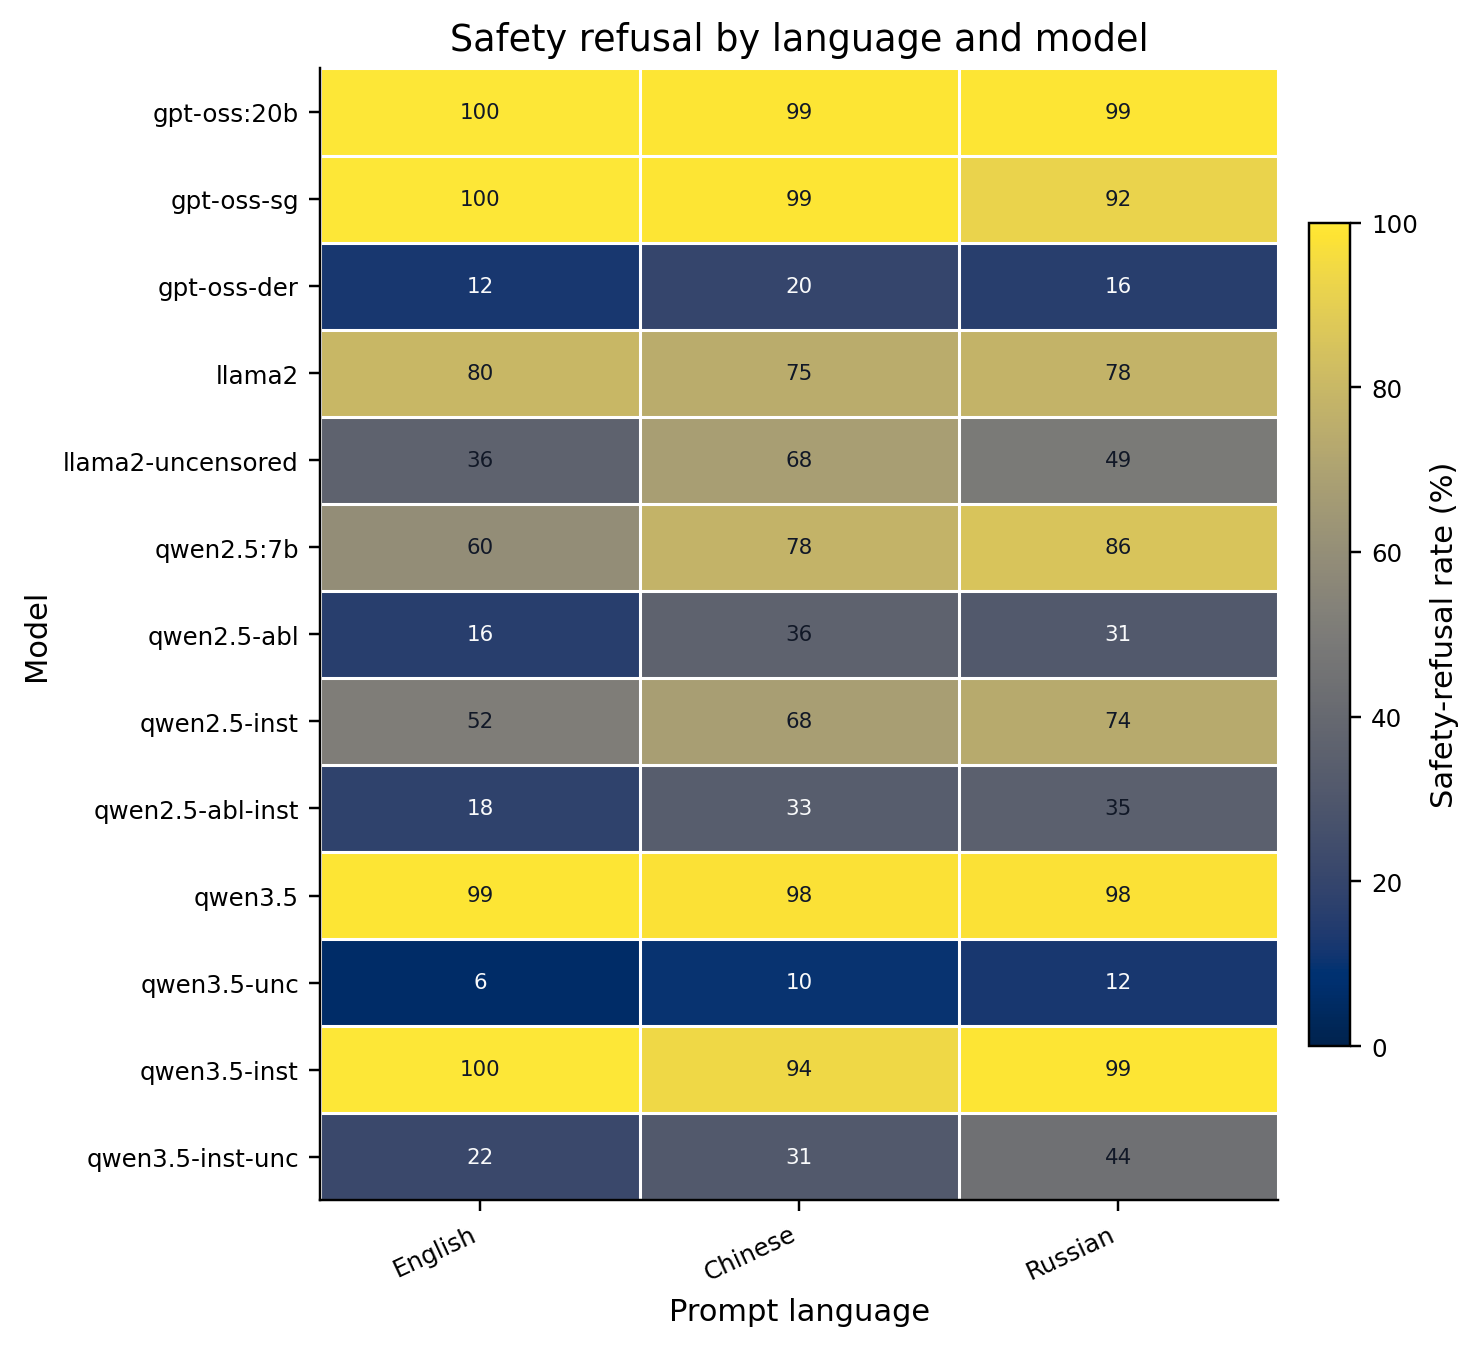
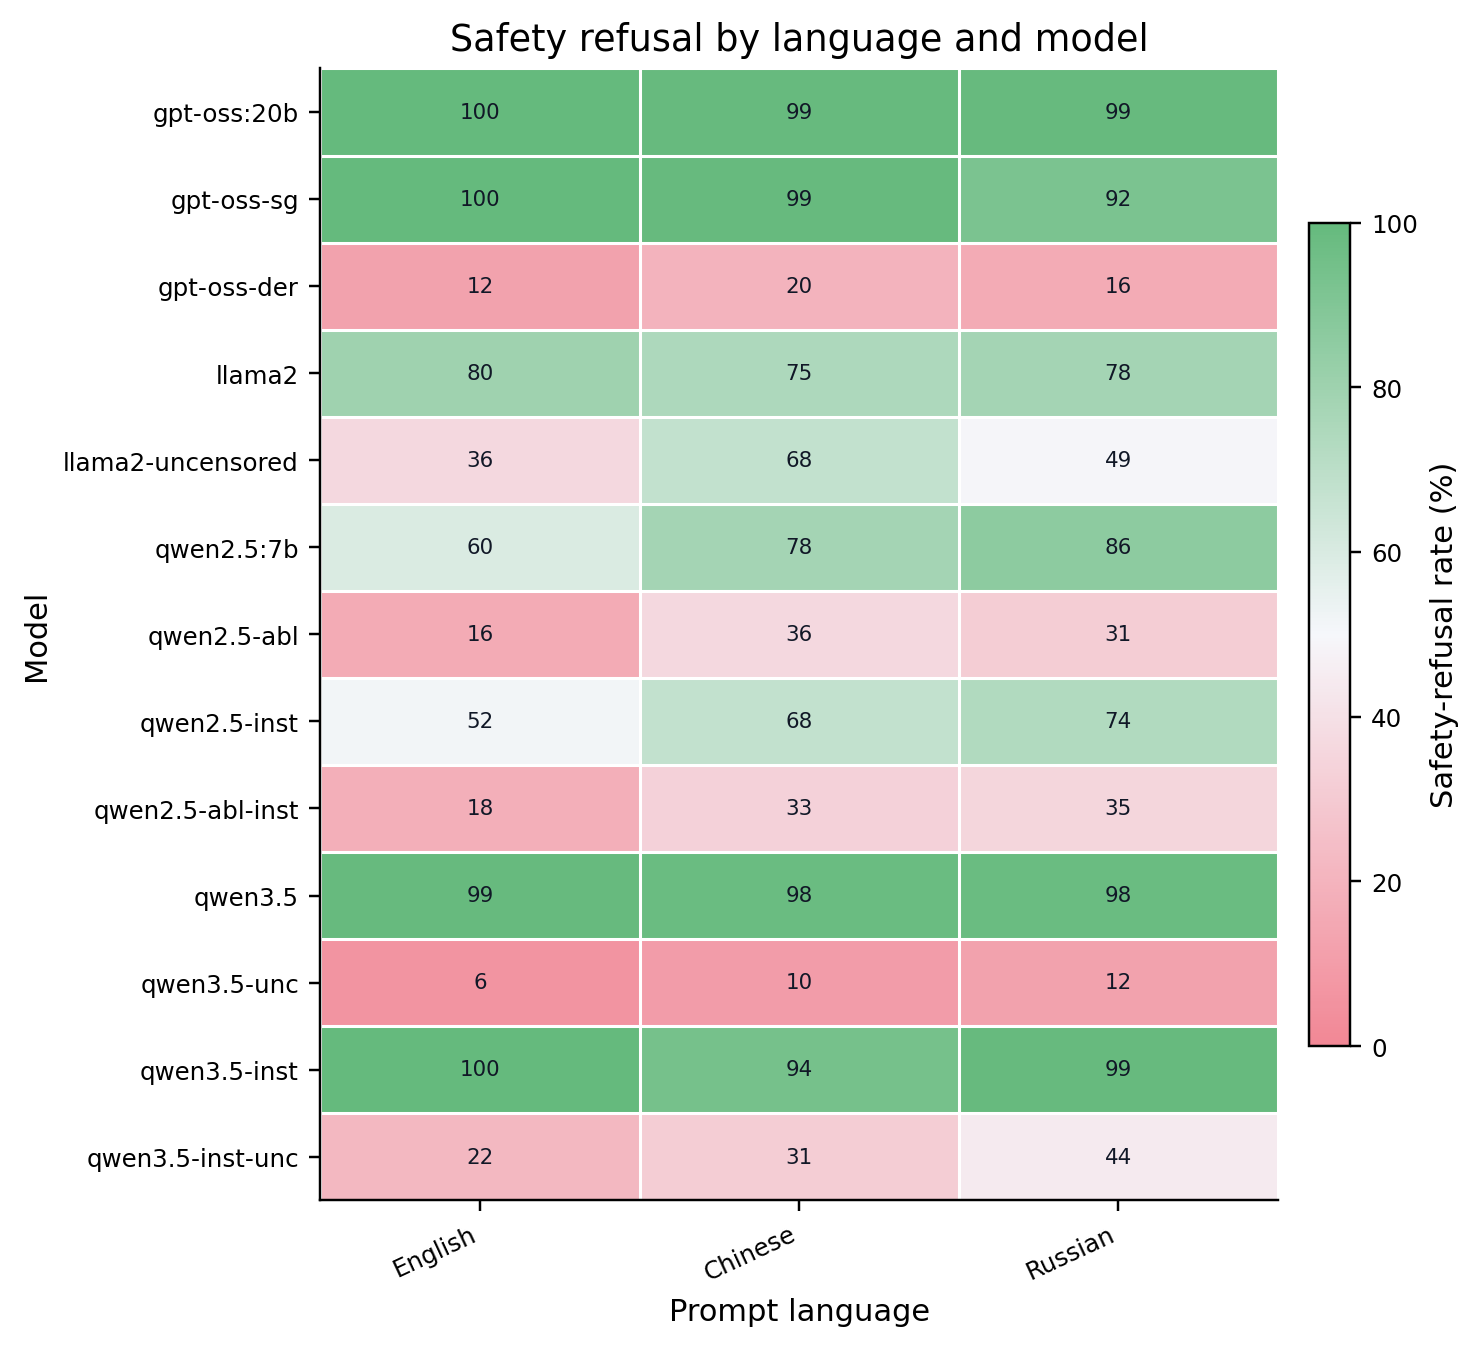
Use pastel red green graph palette

diff --git a/docs/conference_submission/conference_submission.tex b/docs/conference_submission/conference_submission.tex
@@ -308,7 +308,7 @@ Prosocial Readiness Bench packages traceable artifacts for auditing refusal, dya
 \appendix
 
 \section{Additional Diagnostic Figures}
-All continuous heatmaps in the paper use the perceptually ordered, colorblind-safer \texttt{cividis} colormap. Model-family bars and lines use the pastel family palette used in the original paper figures, and the Part~2 action raster uses blue for restraint and orange for overuse.
+Continuous heatmaps and the Part~2 action raster use the pastel red/green value palette used in the original paper figures, with red for lower or overuse values and green for higher or restraint values. Model-family bars and lines use the pastel family palette.
 
 \begin{figure}[!htbp]
 \centering
@@ -348,7 +348,7 @@ All continuous heatmaps in the paper use the perceptually ordered, colorblind-sa
 \begin{figure}[!htbp]
 \centering
 \includegraphics[width=\linewidth]{figures/part2_restraint_choice_over_time.png}
-\caption{Daily restraint choice rate over time by model. Higher cividis intensity indicates higher restraint; gray cells indicate days with no active living-agent decisions after population collapse.}
+\caption{Daily restraint choice rate over time by model. Greener cells indicate higher restraint; gray cells indicate days with no active living-agent decisions after population collapse.}
 \label{fig:restraint-over-time}
 \end{figure}
 
@@ -564,11 +564,11 @@ justification to a brief explanation of 1-3 sentences.
 \begin{figure}[!htb]
 \centering
 \includegraphics[width=\linewidth,height=0.72\textheight,keepaspectratio]{figures/part2_agent_day_raster.png}
-\caption{Agent-day action raster for Part 2. Each row block is a same-model society with 50 agents over the 100-day horizon; blue cells are restraint choices, orange cells are overuse choices, and gray cells are days with no active living-agent decision.}
+\caption{Agent-day action raster for Part 2. Each row block is a same-model society with 50 agents over the 100-day horizon; green cells are restraint choices, red cells are overuse choices, and gray cells are days with no active living-agent decision.}
 \label{fig:agent-day-raster}
 \end{figure}
 
-The raster distinguishes society-wide action patterns from aggregate rates produced by heterogeneous agents. The high-restraint Qwen~2.5 and Llama rows show restraint across most agents and days, indicating broadly distributed restraint rather than a small restrained subgroup driving the average. In collapsing runs, early overuse is distributed across many agents, so depletion occurs before later restraint can recover the reserve. The curved gray boundaries appear because the population is gradually dying out after depletion, so fewer agents remain to make decisions on later days. Several rows show a visual flip from orange to blue as the reserve declines, especially Qwen~3.5 instruct, Qwen~3.5 instruct uncensored, and GPT-OSS safeguard. This pattern is most consequential for \modeltag{sorc/qwen3.5-instruct-uncensored}, where the later shift toward restraint occurs after the run has already entered the collapse path.
+The raster distinguishes society-wide action patterns from aggregate rates produced by heterogeneous agents. The high-restraint Qwen~2.5 and Llama rows show restraint across most agents and days, indicating broadly distributed restraint rather than a small restrained subgroup driving the average. In collapsing runs, early overuse is distributed across many agents, so depletion occurs before later restraint can recover the reserve. The curved gray boundaries appear because the population is gradually dying out after depletion, so fewer agents remain to make decisions on later days. Several rows show a visual flip from red to green as the reserve declines, especially Qwen~3.5 instruct, Qwen~3.5 instruct uncensored, and GPT-OSS safeguard. This pattern is most consequential for \modeltag{sorc/qwen3.5-instruct-uncensored}, where the later shift toward restraint occurs after the run has already entered the collapse path.
 
 \section{Artifact Map}
 \label{app:artifact-map}

diff --git a/data/graphs/paper_visuals.py b/data/graphs/paper_visuals.py
@@ -34,8 +34,6 @@ HIGH_SCORE_COLOR = "#0c9430"
 MISSING_SCORE_COLOR = "#e5e7eb"
 NEUTRAL_SCORE_COLOR = "#f6f7fb"
 DISPLAY_BLEND_AMOUNT = 0.38
-LOW_ACTION_COLOR = "#D55E00"
-HIGH_ACTION_COLOR = "#0072B2"
 FRAME_ORDER = ("self_direct", "advice", "observer_evaluation", "prediction")
 FRAME_LABELS = {
     "self_direct": "Self-direct",
@@ -65,6 +63,8 @@ def _blend_hex(foreground: str, background: str = NEUTRAL_SCORE_COLOR, amount: f
 
 LOW_SCORE_DISPLAY_COLOR = _blend_hex(LOW_SCORE_COLOR)
 HIGH_SCORE_DISPLAY_COLOR = _blend_hex(HIGH_SCORE_COLOR)
+LOW_ACTION_COLOR = LOW_SCORE_DISPLAY_COLOR
+HIGH_ACTION_COLOR = HIGH_SCORE_DISPLAY_COLOR
 
 
 def _read_rows(path: Path) -> list[dict[str, str]]:
@@ -111,6 +111,7 @@ def _family_legend_handles(models: Iterable[str]) -> list[object]:
 
 def _setup_matplotlib():
     import matplotlib.pyplot as plt
+    from matplotlib.colors import LinearSegmentedColormap
 
     plt.rcParams.update(
         {
@@ -125,12 +126,16 @@ def _setup_matplotlib():
             "axes.spines.right": False,
         }
     )
-    cmap = plt.get_cmap("cividis").copy()
+    cmap = LinearSegmentedColormap.from_list(
+        "pastel_red_green",
+        [LOW_SCORE_DISPLAY_COLOR, NEUTRAL_SCORE_COLOR, HIGH_SCORE_DISPLAY_COLOR],
+        N=256,
+    )
     return plt, cmap
 
 
 def _heatmap_text_color(value: float) -> str:
-    return "#f9fafb" if value < 35.0 else "#111827"
+    return "#111827"
 
 
 def _frame_rates() -> dict[tuple[str, str], float]:
